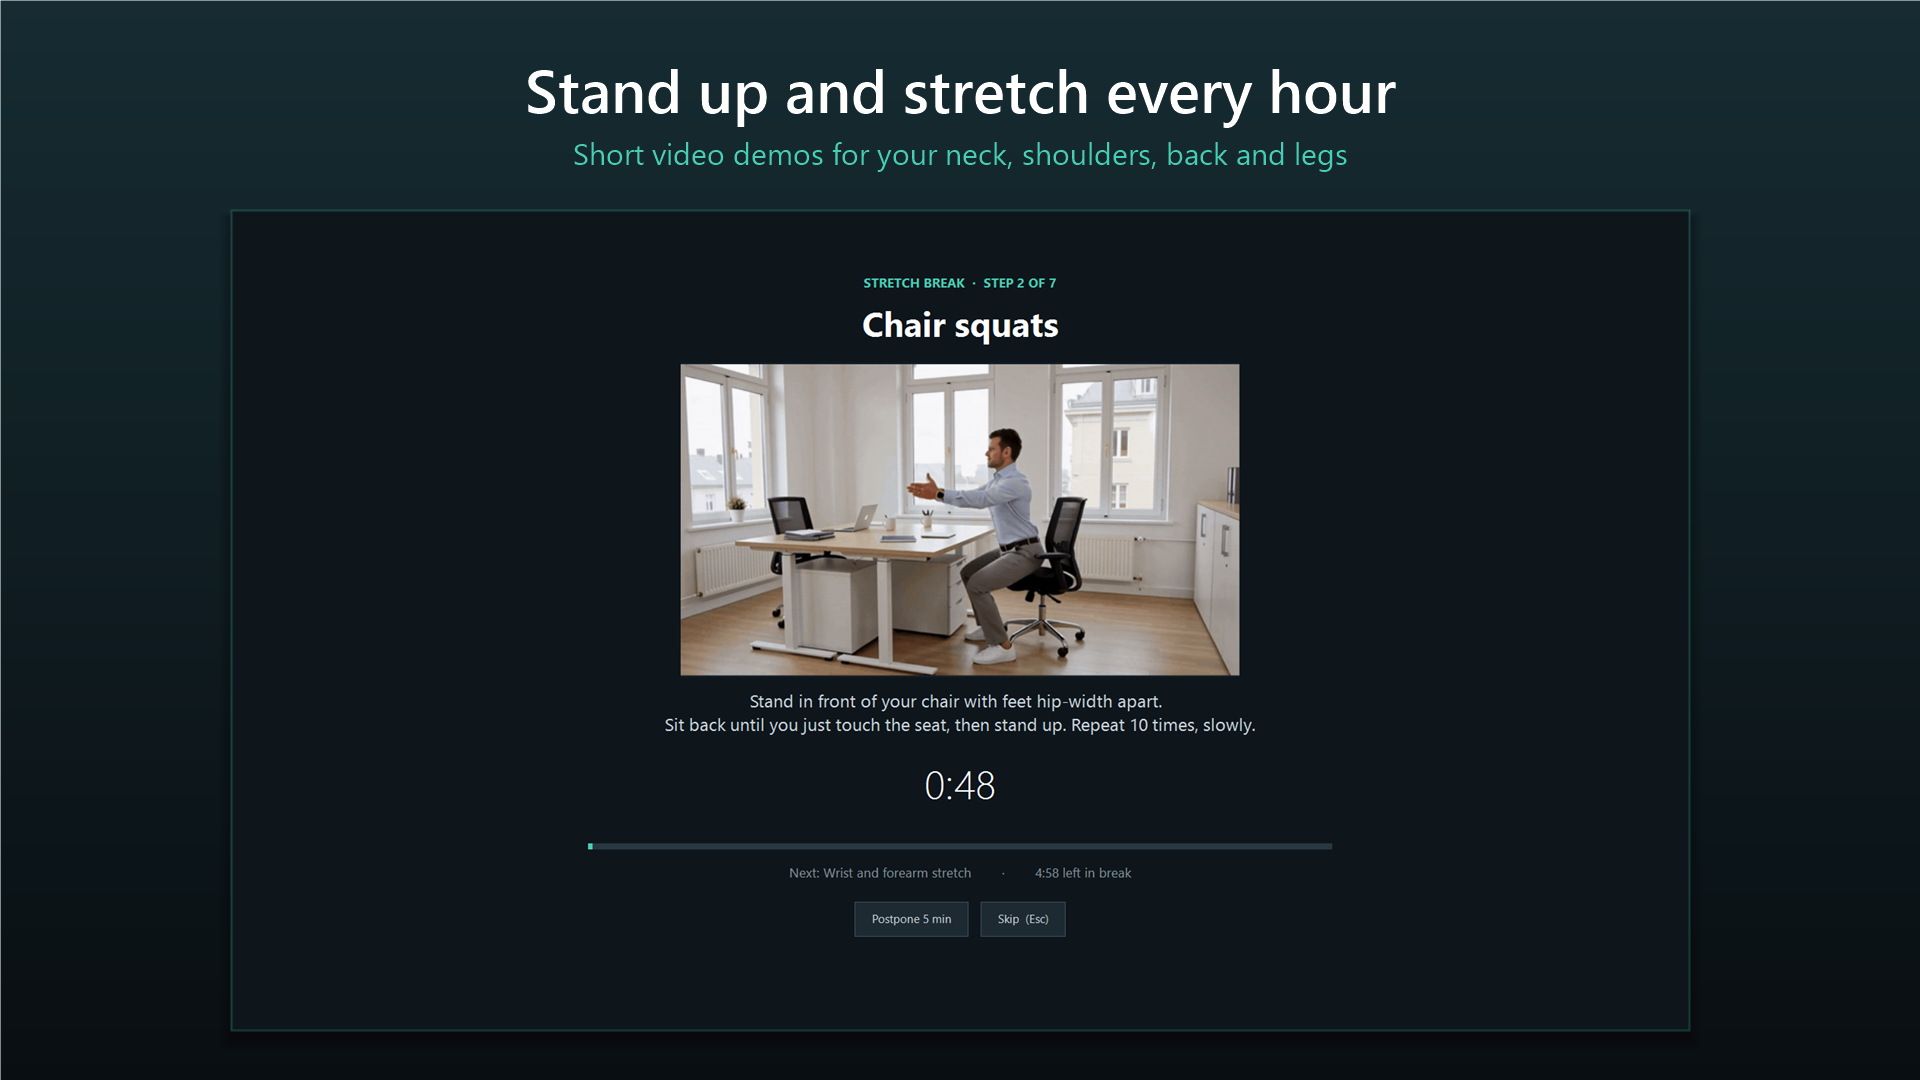
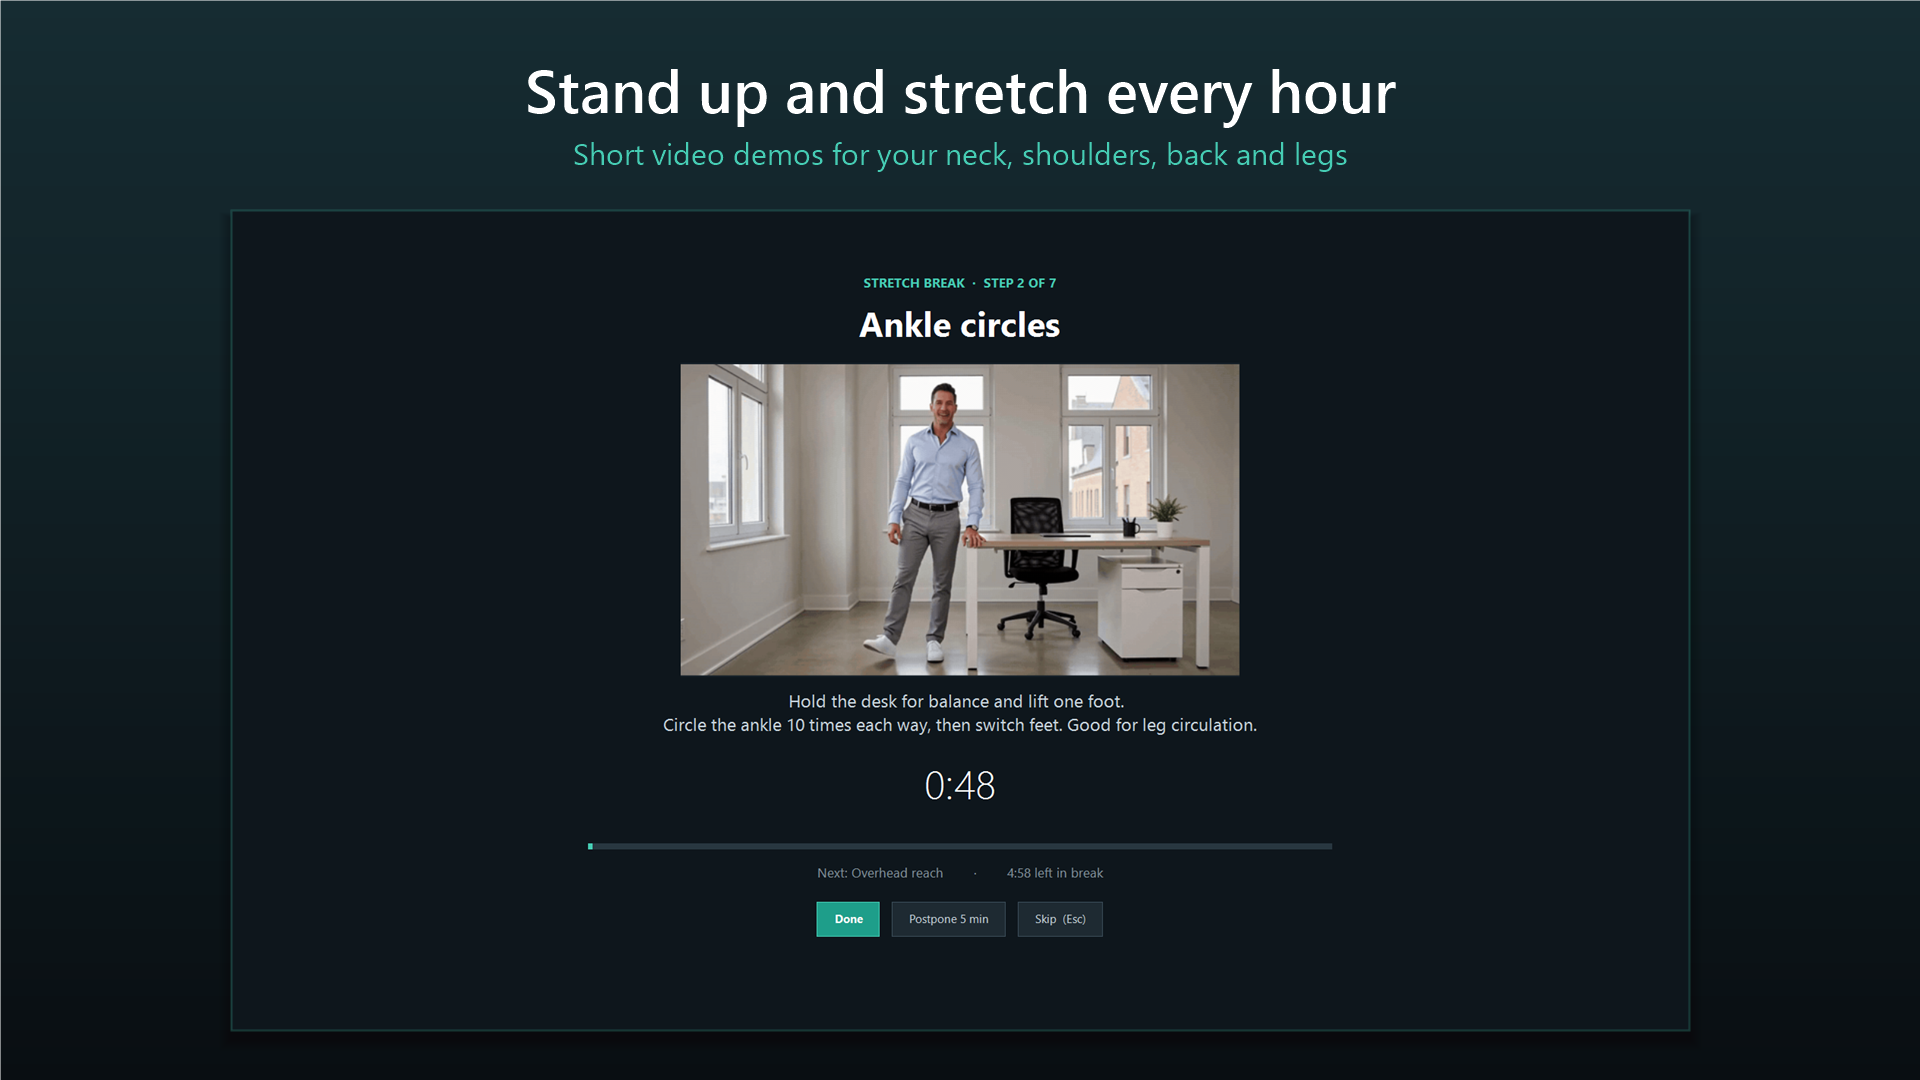
Store: 1.2.0 screenshots and listing text
- make_screenshots.ps1 adds the Dashboard and the PDF report, drawn from
  60 days of made-up history in the --demo files (existing demo files are
  backed up and restored; real stats are never touched), and renders the
  updated Settings with its shift and break summaries.
- Seven screenshots per language: eye break, stretch break, Dashboard,
  PDF report, Settings, check-in, welcome.
- LISTING.md: What's new in 1.2.0, updated description and features,
  and screenshot captions, in English and Filipino.

Changed region(s): [[0.3438, 0.275, 0.6562, 0.7028], [0.4062, 0.7944, 0.5938, 0.8861]]

diff --git a/store/LISTING.md b/store/LISTING.md
@@ -4,7 +4,7 @@
 **Privacy policy URL:** https://screenrest.jilbert.net/privacy/
 **Website:** https://screenrest.jilbert.net · **Support:** https://github.com/jsmejia27/ScreenRest/issues
 **Reserved name:** Screen Rest · **Store ID:** 9P8LKK7JSWW9 · **Store link:** https://apps.microsoft.com/detail/9P8LKK7JSWW9
-**Screenshots (1920×1080):** store/screenshots/store_en_*.png (English), store_tl_*.png (Filipino), made by make_screenshots.ps1 [-Lang en|tl]
+**Screenshots (1920×1080, upload in this order):** store/screenshots/store_en_1…7_*.png (English), store_tl_1…7_*.png (Filipino), made by make_screenshots.ps1 [-Lang en|tl] after build.ps1: 1 eye break, 2 stretch break, 3 Dashboard, 4 PDF report, 5 Settings, 6 check-in, 7 welcome. The Dashboard and report use made-up history.
 **Images (store/logos, made by make_poster.ps1):** 16:9 Windows and Xbox image ScreenRest-hero-3840x2160.png · 2:3 poster ScreenRest-poster-1440x2160.png · 1:1 box art ScreenRest-boxart-2160x2160.png
 **Trailer (store/trailer, made by make_trailer.ps1):** ScreenRest-trailer.mp4 + ScreenRest-trailer-thumbnail.png. Title: "ScreenRest: rest your eyes, move your body" / "ScreenRest: ipahinga ang mata, igalaw ang katawan"
 **Restricted capability note (runFullTrust):** "ScreenRest is a Win32 desktop app (WinForms) packaged with MSIX, so it needs runFullTrust to run. It's a tray break reminder that shows full-screen break windows, pauses when the user is idle, and skips breaks during calls. No network access; all data stays on the PC. Open source: github.com/jsmejia27/ScreenRest"
@@ -16,16 +16,25 @@
 **Short description**
 Eye breaks every 20 minutes and a stretch break every hour, with video and voice guidance.
 
+**What's new in this version (1.2.0)**
+• New Dashboard: your break score, screen time, eye and stretch breaks for today, 7 or 30 days, compared with the period before.
+• Insights from your own history, such as the time of day you skip breaks most.
+• Export a one-page PDF report to show your optometrist.
+• The tray icon can count down the minutes to your next break.
+• Settings now tell you how many breaks a full shift gives you.
+
 **Description**
 ScreenRest is a free break coach for people who work at a screen all day.
 
-• Eye breaks that follow the 20-20-20 rule: every 20 minutes, look 20 feet away for 20 seconds.
+• Eye breaks that follow the 20-20-20 rule: every 20 minutes, look 20 feet away for 20 seconds, with a short guided exercise.
 • A 5-minute stretch break every hour: stand up, follow short video demos for your neck, shoulders, back and legs, then walk and drink water.
 • Calm voice guidance, so your eyes can leave the screen.
-• Follows your shift, work days and lunch hour. Waits while you're on a call or presenting.
-• Daily check-in for eye blur and energy, a Dashboard with insights from your own history, and a one-page PDF to show your optometrist.
+• Follows your shift, work days and lunch hour. Waits while you're on a call or presenting, and pauses while you keep typing.
+• A Dashboard that shows how you're doing today, this week or this month: break score, screen time, breaks per day, the time of day you take them, and short insights from your own history.
+• A quick check-in at the end of your shift for eye blur and energy, and a one-page PDF report to show your optometrist.
+• Optional countdown to your next break on the tray icon.
 • English or Tagalog interface.
-• Private: no account, no ads, no internet connection. Open source (MIT).
+• Private: no account, no ads, no internet connection. Your history stays on your PC as plain files. Open source (MIT).
 
 ScreenRest is a wellness reminder, not medical advice.
 
@@ -33,9 +42,20 @@ ScreenRest is a wellness reminder, not medical advice.
 20-20-20 eye breaks with guided exercises
 Hourly stand-up and stretch routines with video and voice
 Works around your shift, lunch and meetings
-Dashboard, insights and a PDF for your eye doctor
+Dashboard with insights from your own history
+One-page PDF report for your eye doctor
+Tray countdown to your next break
 English and Tagalog
 No account, no ads, works offline
+
+**Screenshot captions**
+1. Rest your eyes every 20 minutes, with a short guided exercise
+2. Stand up and stretch every hour, with short video demos
+3. Dashboard: break score, screen time and insights from your own history
+4. A one-page PDF report for your eye doctor
+5. Fits your shift, work days and lunch hour
+6. A quick check-in for eye blur and energy
+7. Ready in one click, in English or Tagalog
 
 **Keywords:** eye strain, break reminder, 20-20-20, stretch, posture, office, desk, health
 
@@ -46,16 +66,25 @@ No account, no ads, works offline
 **Maikling paglalarawan**
 Eye break tuwing 20 minuto at stretch break kada oras, may gabay na video at boses.
 
+**Ano ang bago sa bersyong ito (1.2.0)**
+• Bagong Dashboard: break score, oras sa screen, eye at stretch breaks ngayong araw, 7 o 30 araw, kumpara sa nakaraang panahon.
+• Mga obserbasyon mula sa sarili mong kasaysayan, gaya ng oras ng araw na pinakamadalas mong nilalaktawan ang break.
+• I-export ang isang pahinang PDF na ulat para ipakita sa optometrist.
+• Puwedeng magbilang pababa ang tray icon hanggang sa susunod mong break.
+• Sinasabi na ng Settings kung ilang break ang makukuha mo sa buong shift.
+
 **Paglalarawan**
 Ang ScreenRest ay libreng break coach para sa mga buong araw nakaharap sa screen.
 
-• Eye break na sumusunod sa 20-20-20 rule: tuwing 20 minuto, tumingin sa 20 talampakan ang layo nang 20 segundo.
+• Eye break na sumusunod sa 20-20-20 rule: tuwing 20 minuto, tumingin sa 20 talampakan ang layo nang 20 segundo, may maikling gabay na ehersisyo.
 • 5 minutong stretch break kada oras: tumayo, sundan ang maiikling video para sa leeg, balikat, likod at binti, saka maglakad at uminom ng tubig.
 • May gabay na boses (English), para makaalis ang mata mo sa screen.
-• Sumusunod sa iyong shift, araw ng trabaho at tanghalian. Naghihintay habang nasa tawag o nagpe-present ka.
-• Araw-araw na check-in para sa labo ng mata at lakas, may 30-araw na chart na puwedeng ipakita sa optometrist.
+• Sumusunod sa iyong shift, araw ng trabaho at tanghalian. Naghihintay habang nasa tawag o nagpe-present ka, at habang patuloy kang nagta-type.
+• Dashboard na nagpapakita kung kumusta ka ngayong araw, linggo o buwan: break score, oras sa screen, breaks bawat araw, kung anong oras mo ginagawa ang mga ito, at maiikling obserbasyon mula sa sarili mong kasaysayan.
+• Mabilis na check-in pagkatapos ng shift para sa labo ng mata at lakas, at isang pahinang PDF na ulat para sa optometrist.
+• Opsyonal na countdown sa tray icon hanggang sa susunod na break.
 • English o Tagalog.
-• Pribado: walang account, walang ads, walang internet. Open source (MIT).
+• Pribado: walang account, walang ads, walang internet. Nasa PC mo lang ang kasaysayan mo bilang simpleng files. Open source (MIT).
 
 Ang ScreenRest ay paalala para sa kalusugan, hindi payong medikal.
 
@@ -63,6 +92,17 @@ Ang ScreenRest ay paalala para sa kalusugan, hindi payong medikal.
 20-20-20 eye breaks na may gabay na ehersisyo
 Stretch break kada oras na may video at boses
 Sumusunod sa shift, tanghalian at meetings
-Araw-araw na check-in at 30-araw na takbo ng kalusugan
+Dashboard na may obserbasyon mula sa sarili mong kasaysayan
+Isang pahinang PDF na ulat para sa doktor ng mata
+Countdown sa tray hanggang sa susunod na break
 English at Tagalog
 Walang account, walang ads, gumagana kahit offline
+
+**Mga caption ng screenshot**
+1. Ipahinga ang mata tuwing 20 minuto, may maikling gabay na ehersisyo
+2. Tumayo at mag-stretch kada oras, may maiikling video
+3. Dashboard: break score, oras sa screen at obserbasyon mula sa sarili mong kasaysayan
+4. Isang pahinang PDF na ulat para sa doktor ng mata
+5. Akma sa iyong shift, araw ng trabaho at tanghalian
+6. Mabilis na check-in para sa labo ng mata at lakas
+7. Handa sa isang click, sa English o Tagalog
